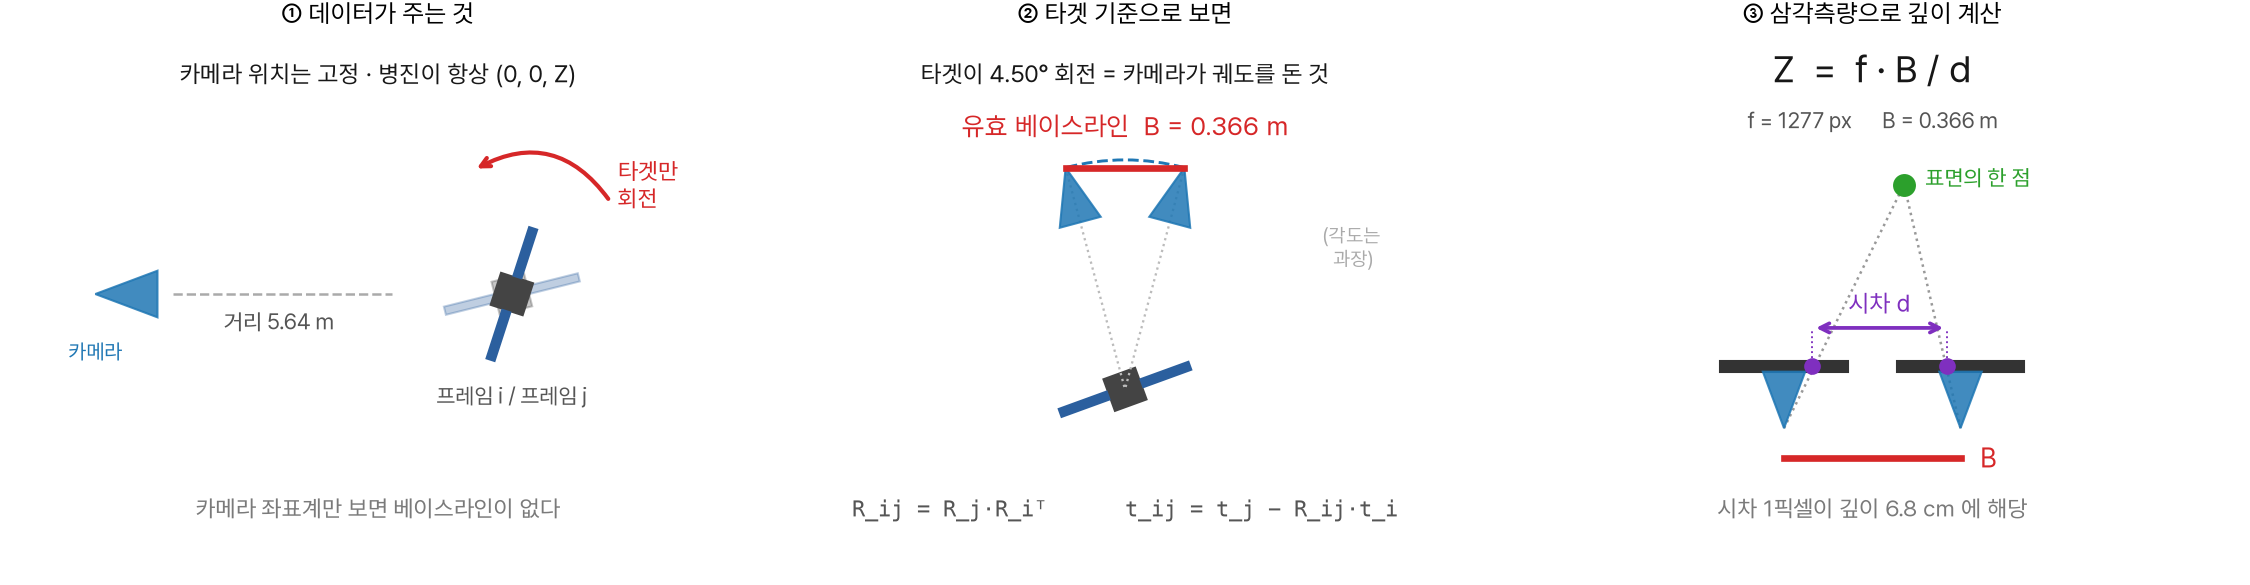
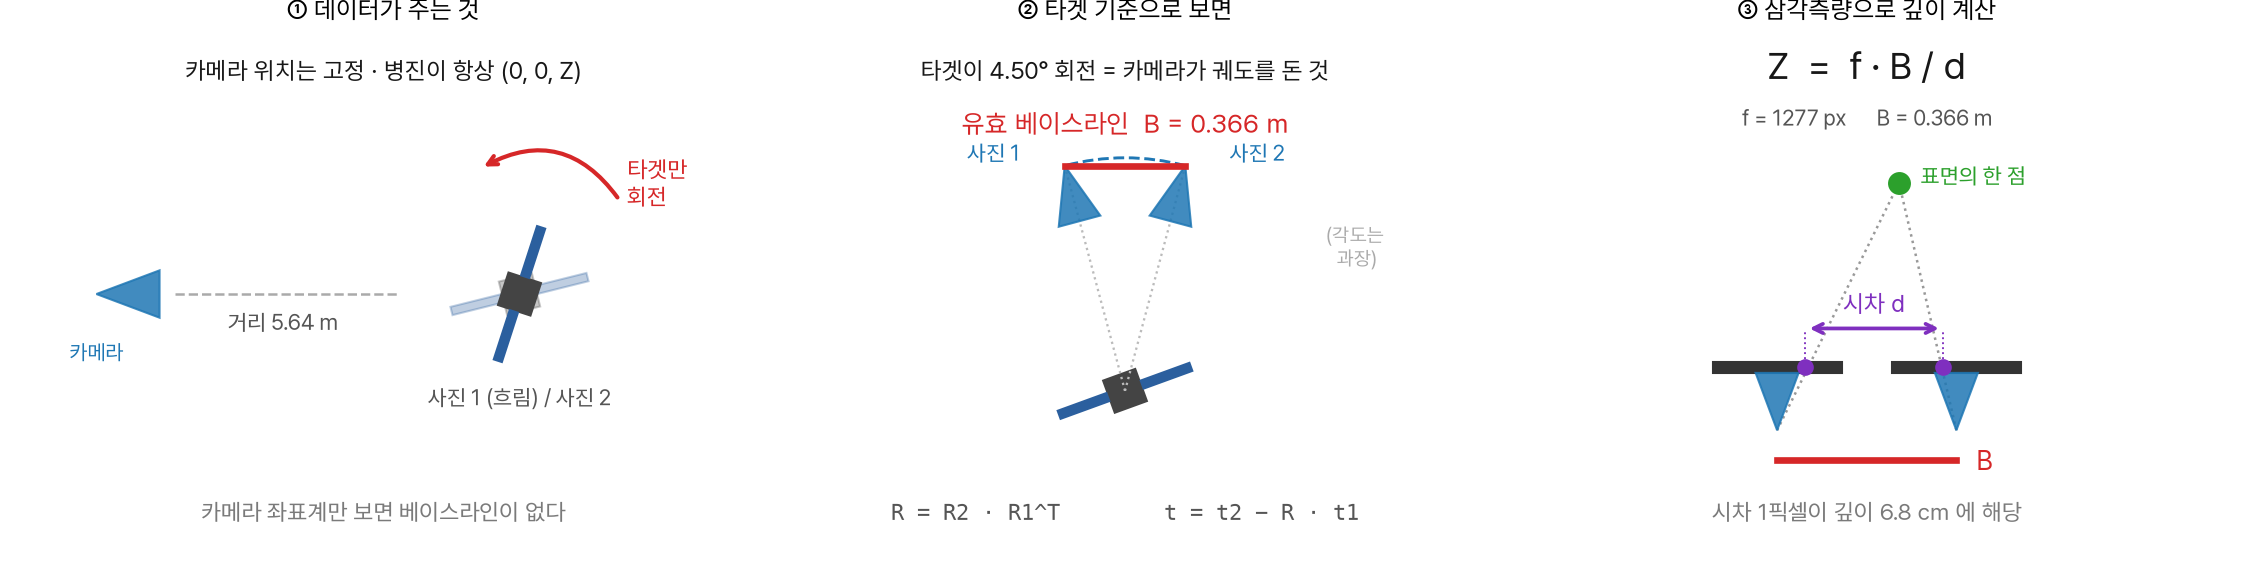
개념도 표기를 1장 수식과 맞추고, 대본을 다시 줄임 (5,600 -> 3,700자)
개념도
  슬라이드 아래에는 R = R2·R1^T 라고 써 놓고 그림에는 R_ij = R_j·R_iᵀ 라고
  적혀 있으면 같은 것을 두 이름으로 부르는 셈이다. 그림 쪽을 맞췄다.
    "프레임 i / 프레임 j"  ->  "사진 1 (흐림) / 사진 2"
    R_ij = R_j·R_iᵀ       ->  R = R2 · R1^T
  ② 패널의 두 카메라에 사진 1 / 사진 2 라벨을 붙이고, 사진 1 이 왼쪽에
  오도록 순서를 바꿨다. 왼쪽부터 읽는 것이 자연스럽고 R1 -> R2 순서와 맞는다.

대본
  32줄은 발표 중에 훑기에 여전히 많았다. 슬라이드에 이미 적힌 것은 대본에
  다시 쓰지 않는다. 왜 그렇게 했는지와 숫자를 어떻게 읽어야 하는지만 남겨
  장당 대여섯 줄로 줄였다.

  3장에 한 줄을 더했다. "과제 예시 코드에는 정답에 맞춘 최적 눈금까지 주고
  채점했습니다" - 5.6배가 어떻게 나온 값인지 모르면 숫자만 남는다.

Claude-Session: https://claude.ai/code/session_018U3AzX4tcWGeaMbFnbomri

diff --git a/02_2d_to_3d/tools/build_report.py b/02_2d_to_3d/tools/build_report.py
@@ -416,15 +416,12 @@ def build(prs, s):
     ])
 
     add_notes(sl, f"""
-· 이 데이터는 카메라가 제자리에 고정돼 있습니다. 위치 값 천 개를 확인해도 옆으로 1 mm 도 안 움직입니다. 그대로는 스테레오를 쓸 수 없습니다.
-· 대신 위성이 매 장면 무작위로 돌아갑니다. 위성을 가만히 놓고 보면 카메라가 그 주위를 돈 것과 같습니다. 그림 ①②가 그 이야기입니다.
-· 그래서 두 사진의 자세에서 상대 자세를 계산했습니다. 회전 R 은 사진 2의 회전에 사진 1의 회전을 전치해 곱한 것이고, 이동 t 는 사진 2의 위치에서 R 과 사진 1의 위치를 곱한 값을 뺀 것입니다.
-· 그 t 중에서 화면과 나란한 성분이 베이스라인입니다. 회전 {best['rotation_deg']:.1f}도짜리 쌍에서 {best['baseline_m']:.3f} m 가 나왔습니다.
-· 이것을 stereoRectify 에 넣으면 두 사진이 평행하게 펴지고, StereoSGBM 이 같은 지점이 옆으로 몇 픽셀 밀렸는지를 찾습니다. 그 픽셀 수가 시차 d 이고, 이 쌍에서는 {best['expected_disparity_px']:.0f} 픽셀입니다.
-· 깊이는 Z = f 곱하기 B 나누기 d 입니다. 초점거리 {best['focal_px']:,.0f} 픽셀, 베이스라인 {best['baseline_m']:.3f} m 를 넣습니다.
-· 여기서 1픽셀이 바꾸는 깊이가 {best['depth_resolution_m_per_px']*100:.1f} cm 입니다. 이보다 미세한 구조는 원리적으로 구분되지 않습니다.
-· 마지막으로 화소마다 X 는 u 빼기 cx 에 Z 나누기 f 를, Y 는 v 빼기 cy 에 Z 나누기 f 를 곱해 3D 좌표로 폅니다.
-· 결과는 Z 오차 중앙값 {best['median_abs']*100:.2f} cm 입니다. 위성까지 {best['distance_m']:.1f} m 인데 그 0.13퍼센트입니다. 5 cm 안에 드는 비율은 3장에서 보여 드리겠습니다.
+· 이 데이터는 카메라가 고정입니다. 위치 값 천 개를 봐도 옆으로 1 mm 도 안 움직입니다.
+· 대신 위성이 매 장면 돌아갑니다. 위성을 세워 놓고 보면 카메라가 그 주위를 돈 셈입니다.
+· 그래서 두 사진의 자세 차이에서 상대 자세 R, t 를 구했고, 그중 화면과 나란한 성분이 베이스라인입니다. 회전 {best['rotation_deg']:.1f}도짜리 쌍에서 {best['baseline_m']:.3f} m 가 나왔습니다.
+· 나머지는 교과서대로입니다. 평행하게 편 뒤 같은 지점이 몇 픽셀 밀렸는지 찾고, Z = f·B/d 로 나눕니다.
+· 여기서 시차 1픽셀이 {best['depth_resolution_m_per_px']*100:.1f} cm 입니다. 이보다 미세한 구조는 원리적으로 구분되지 않습니다.
+· 결과는 Z 오차 중앙값 {best['median_abs']*100:.2f} cm, 위성까지 {best['distance_m']:.1f} m 인데 그 0.13퍼센트입니다.
 """)
 
     # ---------------- 2. Unit Test ----------------
@@ -464,12 +461,11 @@ def build(prs, s):
            "진짜 실패하는지까지 확인했습니다."),
     ])
     add_notes(sl, f"""
-· 크기와 자료형만 보는 테스트는 계산식이 틀려도 통과합니다.
-· 그래서 정답을 손으로 풀 수 있는 장면을 만들어 숫자까지 맞춰 봤습니다.
-· 왼쪽이 실제 코드입니다. 1장에서 말한 "각도 차이가 두 번째 눈이 된다" 를 소수점 12자리까지 확인합니다.
-· 오른쪽이 실행 결과입니다. {tc}개 전부 통과, outputs 폴더에 그대로 저장돼 있습니다.
-· 정답 깊이 차이 {syn['gt_span_m']:.2f} m 를 저희는 {ss['span_m']:.2f} m 로, 과제 예시 코드는 {se['span_m']:.3f} m 로 복원했습니다.
-· 이렇게까지 한 이유 — 이번에 찾은 버그 4건이 전부 테스트가 없던 자리에서 나왔습니다.
+· 과제 예시 테스트는 크기와 자료형만 봅니다. 그러면 계산식이 틀려도 통과합니다.
+· 그래서 공과 상자로 정답을 손으로 풀 수 있는 장면을 만들었습니다. 정답에 오차가 없으니 틀린 만큼이 그대로 알고리즘의 오차입니다.
+· 왼쪽이 실제 코드입니다. 1장에서 말한 "돌아간 각도가 두 번째 눈이 된다" 를 소수점 12자리까지 확인합니다.
+· 오른쪽이 실행 결과, {tc}개 전부 통과입니다. outputs 폴더에 그대로 저장돼 있습니다.
+· 이렇게까지 한 이유는, 이번에 찾은 버그 4건이 전부 테스트가 없던 자리에서 나왔기 때문입니다.
 """)
 
     # ---------------- 3. 2D -> 3D 변환 결과 ----------------
@@ -505,11 +501,11 @@ def build(prs, s):
     ])
     add_notes(sl, f"""
 · 왼쪽부터 정답, 사진 2장으로 만든 결과, 사진 {cov_fuse['pairs_used']}쌍을 합친 결과입니다.
-· 거리는 정확합니다. 오차 {best['median_abs']*100:.2f} cm, 100번 중 {best['within_5cm']*100:.0f}번이 5 cm 안입니다. 과제 예시 코드보다 {gap_ratio:.1f}배 정확합니다.
-· 대신 가운데를 보시면 한쪽 면만 있습니다. 겉면 전체로는 {cov_one['surface_coverage']*100:.0f}% 입니다.
-· 알고리즘이 부족해서가 아니라 한 방향에서는 뒷면이 가려서 안 보이기 때문입니다.
-· 그래서 사진을 더 모아 {cov_fuse['pairs_used']}쌍을 합쳐 {fuse0['surface_coverage']*100:.0f}% 까지 올렸습니다.
-· 대신 정확한 점의 비율이 {cov_one['precision']*100:.0f} 에서 {fuse0['precision']*100:.0f}% 로 떨어집니다. 둘을 동시에 얻을 수는 없었습니다.
+· 가운데를 정답과 견줘 보시면 한쪽 면만 있습니다. 알고리즘이 부족해서가 아니라 한 방향에서는 뒷면이 가려서 안 보이기 때문입니다.
+· 그래서 사진을 더 모아 오른쪽을 만들었습니다. 반대편이 채워집니다.
+· 다만 정확한 점의 비율이 {cov_one['precision']*100:.0f}에서 {fuse0['precision']*100:.0f}퍼센트로 떨어집니다. 사진이 늘면 어긋난 점도 같이 늘기 때문입니다.
+· 넓게 덮는 것과 정확한 것을 동시에 얻을 수는 없었고, 어느 쪽을 쓸지는 용도가 정할 문제라고 봅니다.
+· 과제 예시 코드에는 정답에 맞춘 최적 눈금까지 주고 채점했습니다. 그러고도 {gap_ratio:.1f}배 차이입니다.
 """)
 
     # ---------------- 4. 개선점 ----------------
@@ -560,17 +556,12 @@ def build(prs, s):
         y += 1.24
 
     add_notes(sl, f"""
-· 실제로 쓰려면 남은 것 네 가지입니다. 앞줄이 지금 잰 값이고 뒷줄이 할 일입니다.
-· 1번이 가장 큽니다. 지금은 위성의 자세를 데이터셋이 준 정답으로 받아 씁니다. 실제 상대항법에서는 그 자세도 추정해야 합니다.
-· 그래서 자세를 일부러 조금씩 틀리게 넣어 봤습니다. 0.25도만 틀려도 5 cm 안에 드는 비율이 {best['within_5cm']*100:.0f}에서 {p025['within_5cm']*100:.0f}퍼센트로 무너집니다.
-· 이유는 베이스라인이 짧아서입니다. 0.25도를 돌리면 5.6 m 거리에서 타겟이 2.5 cm 옮겨 앉는데, 베이스라인이 {best['baseline_m']*100:.0f} cm 뿐이라 그 7퍼센트가 그대로 깊이 배율 오차가 됩니다.
-· 그래서 자세를 그대로 믿지 말고, 두 사진의 대응점으로 상대 자세를 다시 맞추는 단계가 필요합니다.
-· 2번은 3장에서 사진 {cov_fuse['pairs_used']}쌍을 합쳐 {fuse0['surface_coverage']*100:.0f}퍼센트를 덮었다고 말씀드린 것의 원인입니다. 시점 간 최대각은 {spread['max_angle_deg']:.0f}도로 넓어 보이지만 구면 {spread['sphere_cells_total']}칸 중 {spread['sphere_cells_filled']}칸에만 있습니다.
-· 조건에 맞는 사진을 전부 쓰다 보니 그렇습니다. 실제로 상위 두 쌍이 겉면의 {top2_share*100:.0f}퍼센트를 만들고 나머지는 이미 덮은 데를 또 덮습니다. 빈 방향을 채우는 쪽으로 고르면 같은 장수로 더 넓게 덮을 수 있습니다.
-· 3번은 넓게 덮는 것과 정확한 것이 맞바뀌는 문제입니다. 지금은 자신 없는 값을 그냥 버립니다. 그래서 "모른다" 와 "틀렸다" 가 구분되지 않습니다. 점마다 신뢰도를 함께 내면 쓰는 쪽에서 골라 쓸 수 있습니다.
-· 4번은 정렬한 화면의 대부분이 빈 우주라는 것입니다. 위성이 있는 부분만 잘라 쓰면 같은 계산량으로 더 조밀하게 볼 수 있습니다. 지금 깊이 분해능이 {best['depth_resolution_m_per_px']*100:.1f} 센티미터 퍼 픽셀에서 막혀 있습니다.
-· 이 밖에 재 봤지만 쓰지 않은 것도 있습니다. 시차를 찾는 범위를 좁히면 빈 곳은 줄지만 5 cm 안이 {narrow['current']['within_5cm']*100:.1f}에서 {narrow['narrowed']['within_5cm']*100:.1f}퍼센트로 떨어져서, 잰 값만 남겼습니다.
-· 한계도 말씀드리면 위성은 한 종류만 실험했습니다.
+· 앞줄이 지금 잰 값이고 뒷줄이 할 일입니다.
+· 1번이 가장 큽니다. 지금은 위성 자세를 데이터셋이 준 정답으로 받아 쓰는데, 실제로는 그 자세도 추정해야 합니다.
+· 자세를 0.25도만 틀어도 무너지는 이유는 베이스라인이 짧아서입니다. 0.25도면 타겟이 2.5 cm 옮겨 앉는데, 베이스라인 {best['baseline_m']*100:.0f} cm 의 7퍼센트라 깊이가 통째로 그만큼 밀립니다.
+· 2번은 3장에서 {cov_fuse['pairs_used']}쌍을 합쳐도 {fuse0['surface_coverage']*100:.0f}퍼센트에서 멈춘 이유입니다. 조건에 맞는 사진을 전부 쓰다 보니 보는 방향이 한쪽에 몰립니다.
+· 3번은 지금 자신 없는 값을 그냥 버려서 "모른다" 와 "틀렸다" 가 구분되지 않는다는 것입니다.
+· 이 밖에 시차 찾는 범위 좁히기는 재 봤지만, 정확도를 내주는 쪽이라 쓰지 않고 값만 남겼습니다.
 """)
 
 

diff --git a/02_2d_to_3d/figures.py b/02_2d_to_3d/figures.py
@@ -90,7 +90,7 @@ def figure_concept(best, path):
            color="#555555")
     satellite(a, 1.9, 0, 14, 0.85, alpha=0.30)
     satellite(a, 1.9, 0, 72, 0.85, alpha=1.0)
-    a.text(1.9, -1.55, "프레임 i / 프레임 j", ha="center", fontsize=10.5,
+    a.text(1.9, -1.55, "사진 1 (흐림) / 사진 2", ha="center", fontsize=10.5,
            color="#555555")
     a.annotate("", xy=(1.35, 1.75), xytext=(3.3, 1.30),
                arrowprops=dict(arrowstyle="->", color="#d62728", lw=2.0,
@@ -106,11 +106,14 @@ def figure_concept(best, path):
     r, show = 3.25, 30.0        # 실제 4.5°는 너무 작아 그림에서는 과장한다
     cy0 = -1.35
     satellite(a, 0, cy0, 20, 0.85)
-    for sgn, alpha in ((-1, 0.5), (1, 1.0)):
+    for sgn, alpha, tag in ((1, 0.5, "사진 1"), (-1, 1.0, "사진 2")):
         th = np.deg2rad(90 + sgn * show / 2)
         cx, cyy = r * np.cos(th), cy0 + r * np.sin(th)
         camera(a, cx, cyy, np.rad2deg(th) + 180, 0.5, "#1f77b4")
         a.plot([cx, 0], [cyy, cy0], ls=":", color="#bbbbbb", lw=1.1)
+        a.text(cx + np.sign(cx) * 0.62, cyy + 0.18, tag, fontsize=10.5,
+               color="#1f77b4", ha="right" if cx < 0 else "left",
+               va="center")
     a.add_patch(Arc((0, cy0), 2 * r, 2 * r, theta1=90 - show / 2,
                     theta2=90 + show / 2, color="#1f77b4", lw=1.4, ls="--"))
     th1, th2 = np.deg2rad(90 - show / 2), np.deg2rad(90 + show / 2)
@@ -121,7 +124,7 @@ def figure_concept(best, path):
            ha="center", fontsize=12.5, color="#d62728")
     a.text(0, 3.0, f"타겟이 {ang:.2f}° 회전 = 카메라가 궤도를 돈 것",
            ha="center", fontsize=11.5, color="#171717")
-    a.text(0, -3.15, "R_ij = R_j·R_iᵀ      t_ij = t_j − R_ij·t_i",
+    a.text(0, -3.15, "R = R2 · R1^T        t = t2 − R · t1",
            ha="center", fontsize=10.5, color="#555555", family="monospace")
     a.text(3.2, 0.4, "(각도는\n 과장)", fontsize=9.5, color="#aaaaaa", ha="center")
 
